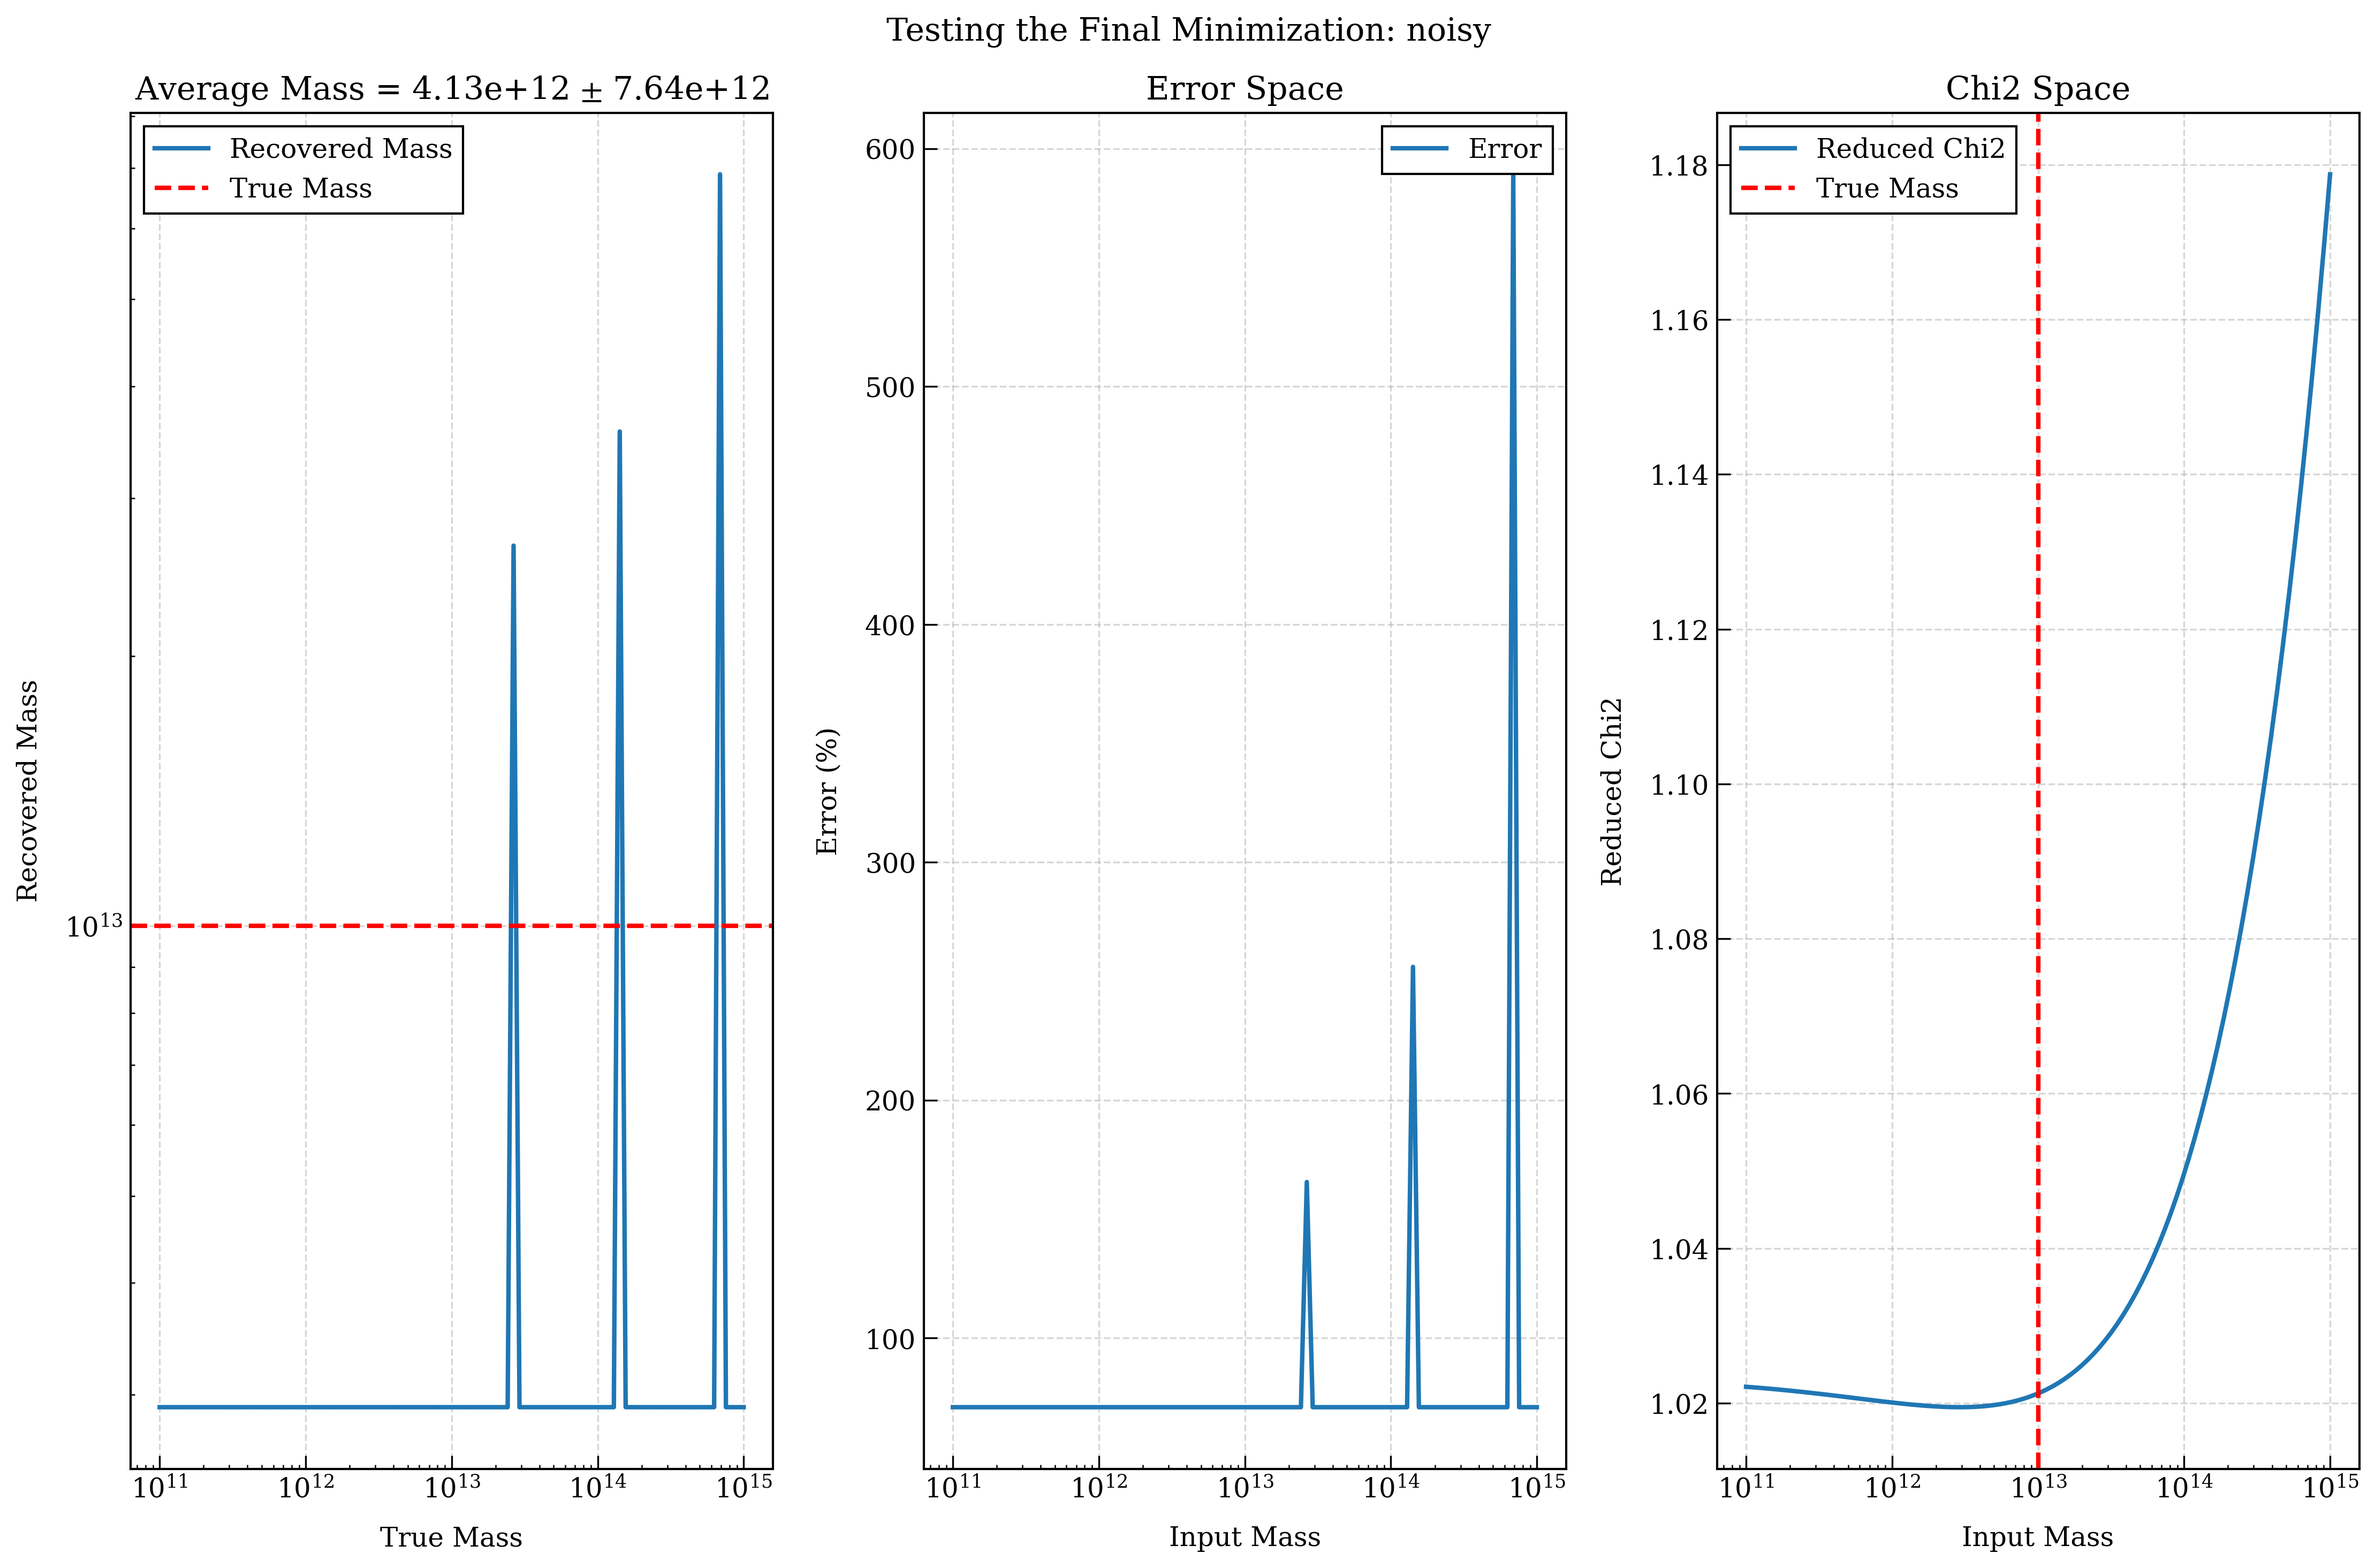
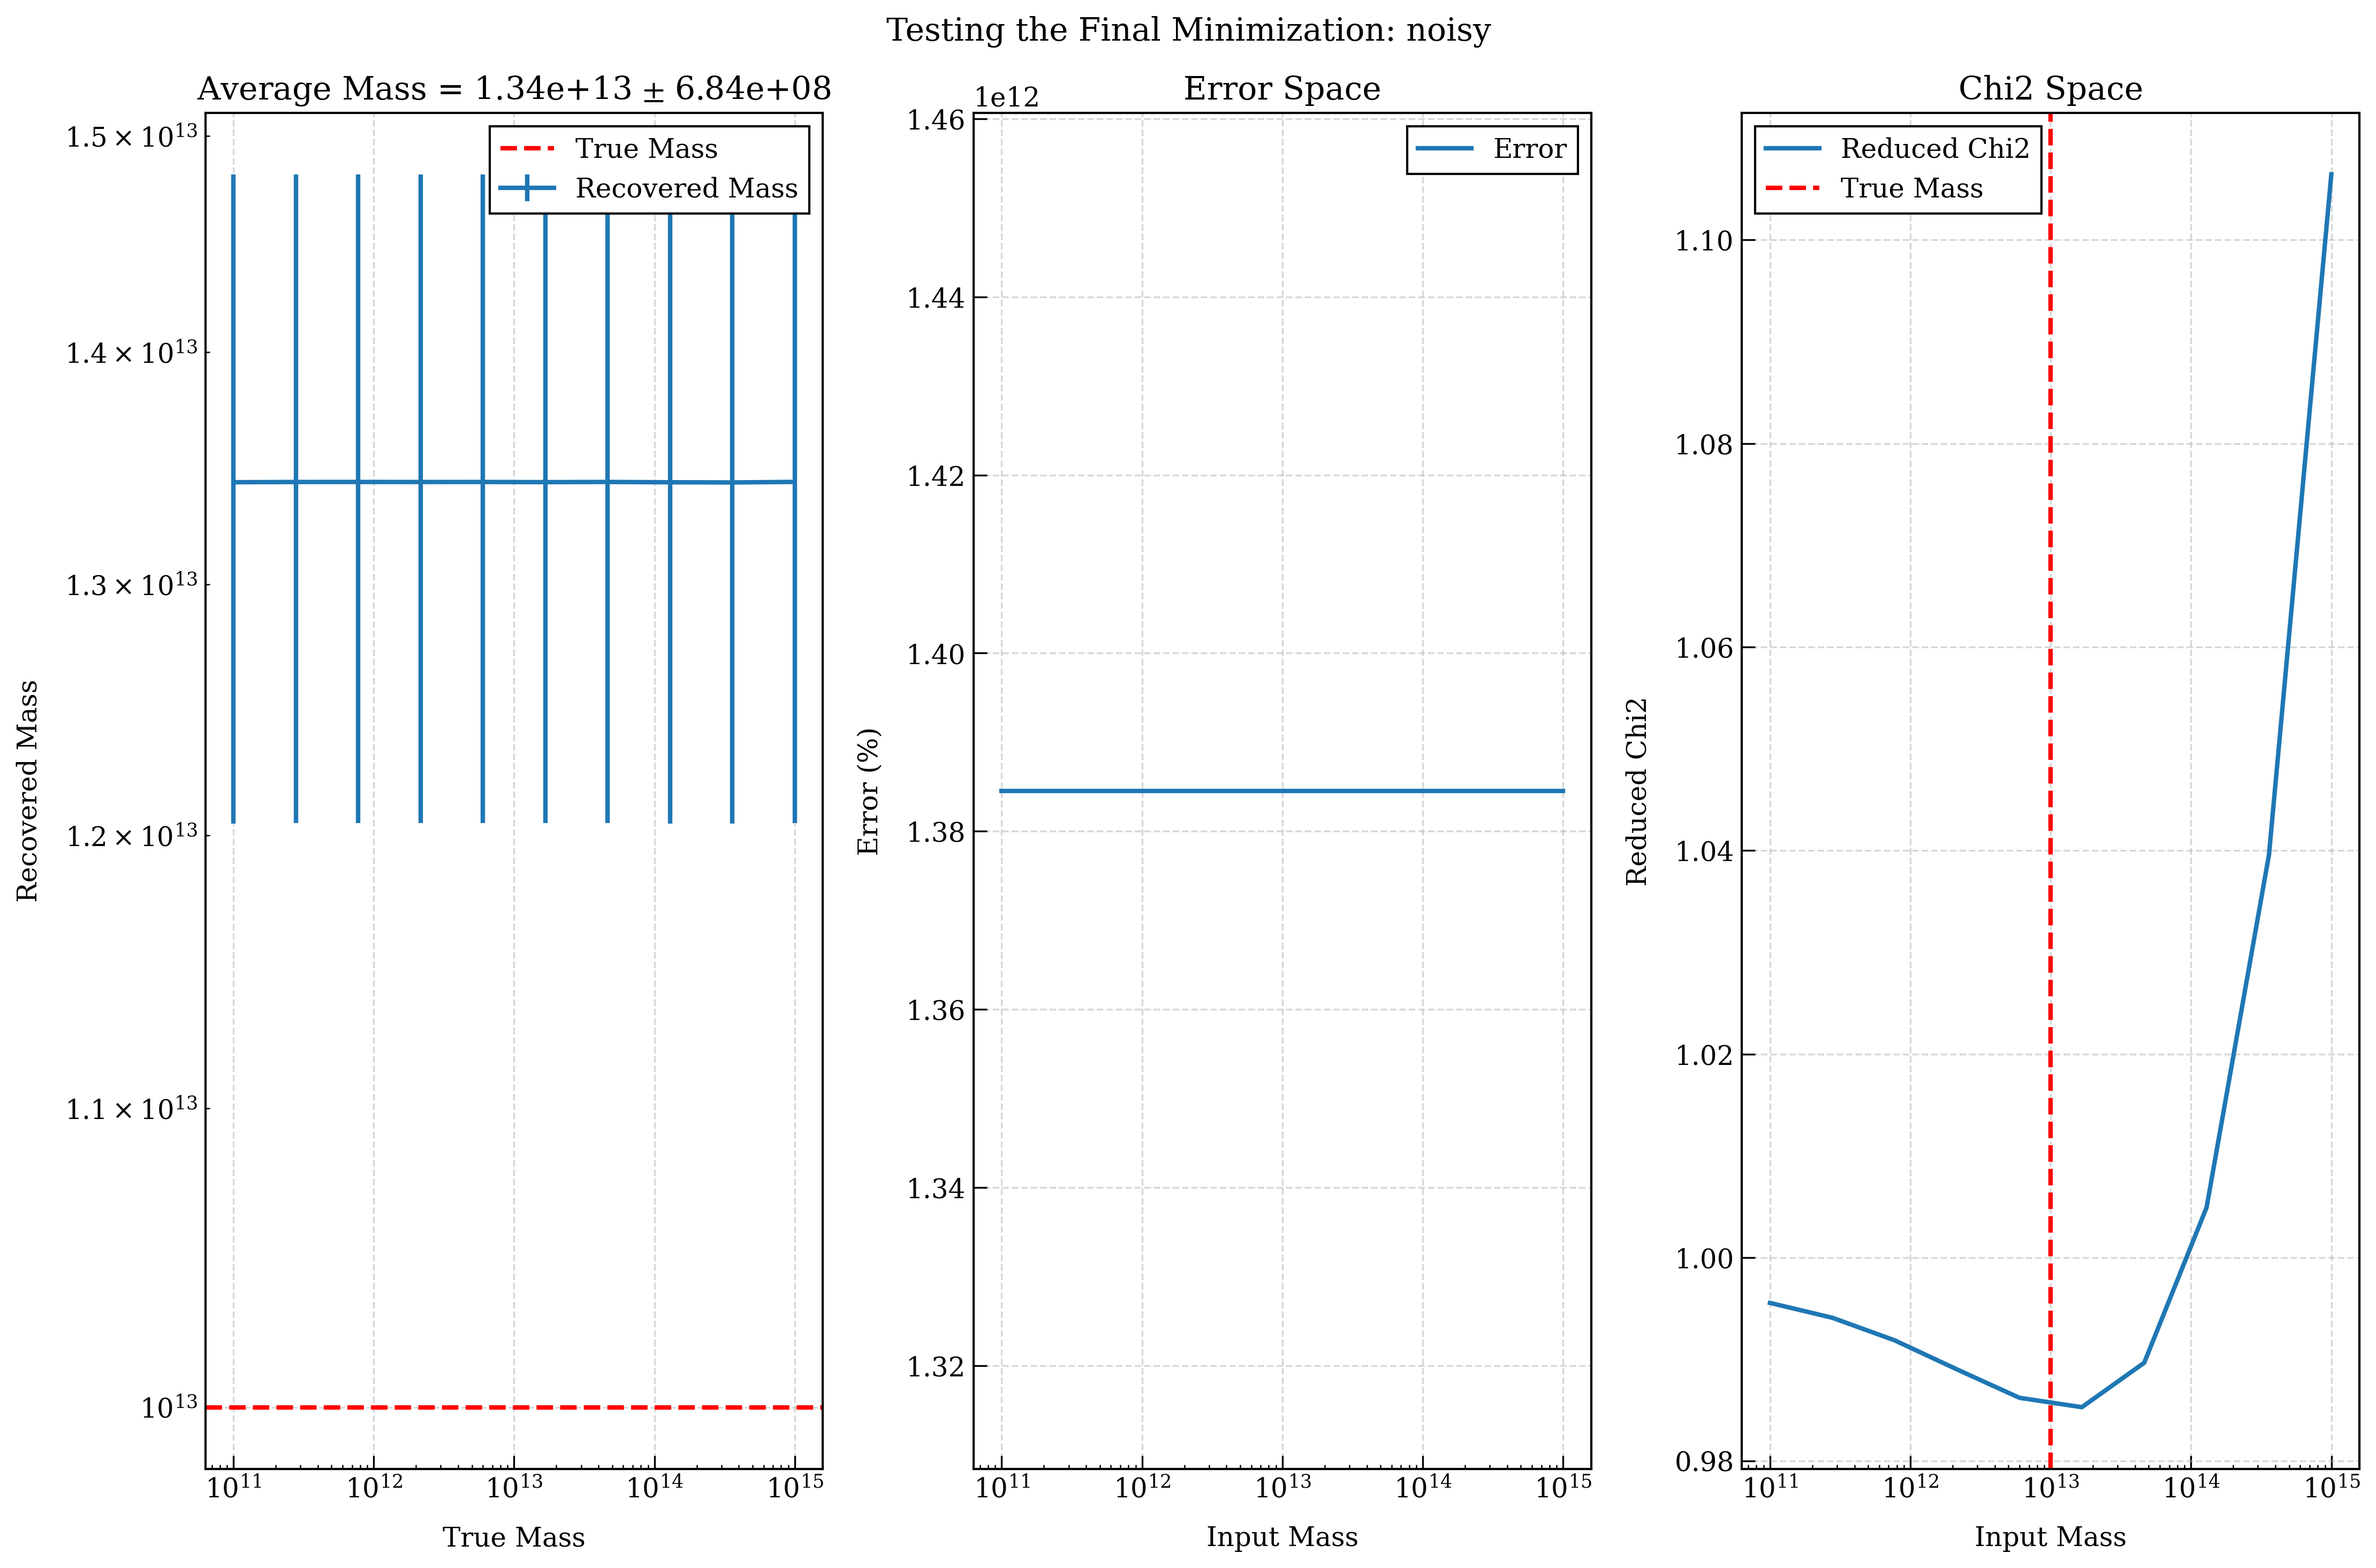
About to rewrite tests of final minimization

diff --git a/mdark.py b/mdark.py
@@ -1043,10 +1043,9 @@ def visualize_final_minimization(halo_mass, use_noise=True, offset=0):
 
     # Now, create a set of lenses at the correct positions, with a range of masses
     # We will then test the final minimization step on these lenses, and see the resultant mass
-    input_masses = np.logspace(11, 15, 100)
+    input_masses = np.logspace(11, 15, 10)
     output_masses = np.zeros_like(input_masses)
     chi2_vals = np.zeros_like(input_masses)
-    errors = np.zeros_like(input_masses)
     for i in range(len(input_masses)):
         mass = np.ones(Nlens) * input_masses[i]
         lenses = pipeline.Halo(x+offset, y+offset, np.zeros_like(x), np.zeros(Nlens), mass, 0.194, np.zeros_like(x))
@@ -1055,7 +1054,6 @@ def visualize_final_minimization(halo_mass, use_noise=True, offset=0):
         lenses.full_minimization(sources, [True, True, True])
         output_masses[i] = np.sum(lenses.mass)
         chi2_vals[i] = chi2_reduced
-        errors[i] = np.abs(output_masses[i] - halo_mass) / halo_mass * 100
 
     # Make labels for the plot
     if halo_mass == 1e14:
@@ -1072,10 +1070,38 @@ def visualize_final_minimization(halo_mass, use_noise=True, offset=0):
     else:
         noise = 'noiseless'
 
+    errors = np.empty(len(input_masses))
+    # Perform a jackknife test to get the error
+    # Remove one source at a time, repeat the minimization, and see the mass that is recovered
+    # Scatter in the recovered mass is the error
+    for i in range(len(input_masses)):
+        error = []
+        for j in range(Nsource):
+            sources_copy = copy.deepcopy(sources)
+            sources_copy.x = np.delete(sources_copy.x, j)
+            sources_copy.y = np.delete(sources_copy.y, j)
+            sources_copy.e1 = np.delete(sources_copy.e1, j)
+            sources_copy.e2 = np.delete(sources_copy.e2, j)
+            sources_copy.f1 = np.delete(sources_copy.f1, j)
+            sources_copy.f2 = np.delete(sources_copy.f2, j)
+            sources_copy.g1 = np.delete(sources_copy.g1, j)
+            sources_copy.g2 = np.delete(sources_copy.g2, j)
+            sources_copy.sigs = np.delete(sources_copy.sigs, j)
+            sources_copy.sigf = np.delete(sources_copy.sigf, j)
+            sources_copy.sigg = np.delete(sources_copy.sigg, j)
+
+            lenses = pipeline.Halo(x+offset, y+offset, np.zeros_like(x), np.zeros(Nlens), mass, 0.194, np.zeros_like(x))
+            lenses.calculate_concentration()
+            lenses.full_minimization(sources_copy, [True, True, True])
+            output_mass = np.sum(lenses.mass)
+            error.append(output_mass)
+        errors[i] = np.std(error)
 
     # Plot the results
     fig, ax = plt.subplots(1, 3, figsize=(15, 10))
     fig.suptitle('Testing the Final Minimization: {}'.format(noise))
+    # Plot the mass with error bars
+    # ax[0].errorbar(input_masses, output_masses, yerr=errors, label='Recovered Mass')
     ax[0].plot(input_masses, output_masses, label='Recovered Mass')
     ax[0].axhline(halo_mass, color='red', linestyle='--', label='True Mass')
     ax[0].set_xscale('log')
@@ -1108,7 +1134,7 @@ def visualize_final_minimization(halo_mass, use_noise=True, offset=0):
     plt.savefig('Images/NFW_tests/final_opt/{}_{}_offset_{}.png'.format(size, noise, offset))
     plt.close()
 
-    return np.mean(errors)
+    return
 
 
 def simple_nfw_test(Nlens, Nsource, xmax, halo_mass, use_noise=True):
@@ -1266,26 +1292,13 @@ def process_md_set():
 
 
 if __name__ == '__main__':
-    mass = [1e12]
+    mass = [1e12, 1e13, 1e14]
     use_noise = [True]
     offsets = [0]
-
-    # Run the final optimization tests, storing the errors for each mass
     for m in mass:
-        errors = []
         for noise in use_noise:
             for offset in offsets:
-                for _ in range(100):
-                    error = visualize_final_minimization(m, noise, offset)
-                    errors.append(error)
-        
-        # Plot the errors as a histogram
-        fig, ax = plt.subplots(1, 1, figsize=(5, 5))
-        fancy_hist(errors, ax=ax, bins='scott', color='black', histtype='step', density=True, label = 'Mean Error: {:.2f}'.format(np.mean(errors)))
-        ax.set_xlabel('Error (%)')
-        ax.set_ylabel('Probability Density')
-        ax.set_title('Error Distribution for Mass = {:.2e}'.format(m))
-        plt.savefig('Images/NFW_tests/final_opt/error_distribution_{}.png'.format(np.log10(m)))
+                visualize_final_minimization(m, noise, offset)
 
     # run_simple_tests()
     # run_rr_tests()
